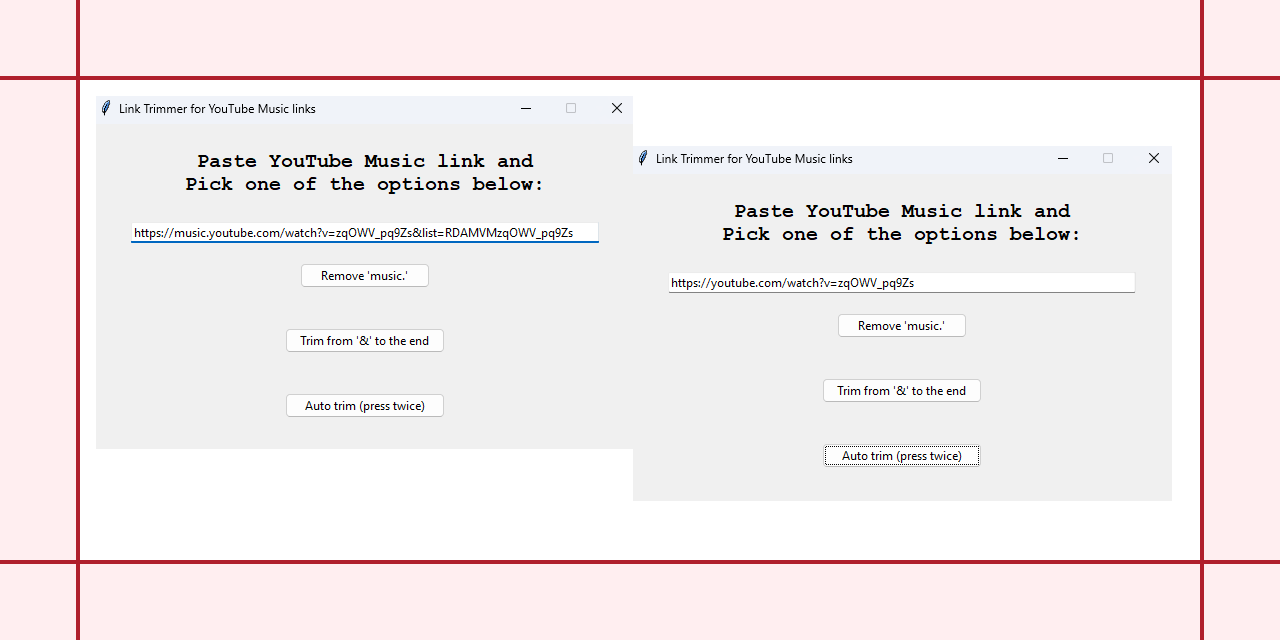
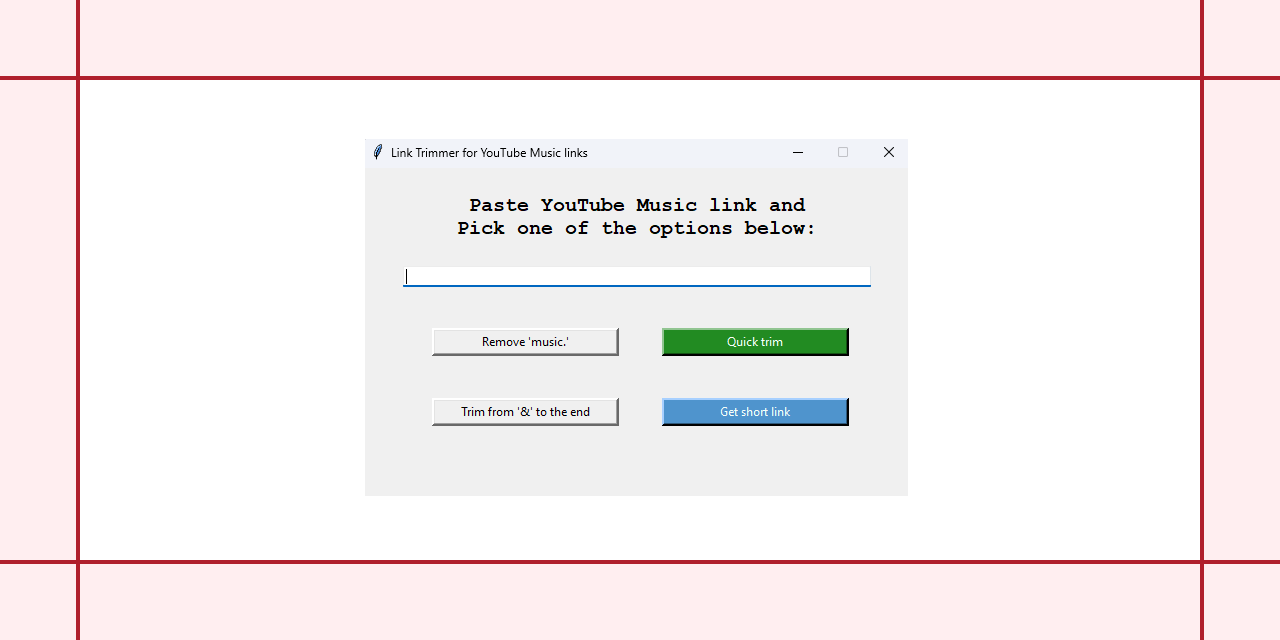
fix errors in shorten_url function

diff --git a/yourube_link_trimmer.py b/yourube_link_trimmer.py
@@ -31,9 +31,15 @@ def trim_all():
 
 
 def shorten_url(url):
-    service = pyshorteners.Shortener(api_key='6e4f69ed88460cc3cb3c96b6c1857c64e26ef452')
+    key = "Your API Key"
+    if key == "Your API Key":
+        entry.delete(0, END)
+        return entry.insert(0, "You have to add valid API key")
+
+    service = pyshorteners.Shortener(api_key=key)
     short_url = service.bitly.short(url)
     entry.delete(0, END)
+
     return entry.insert(0, short_url)
 
 
